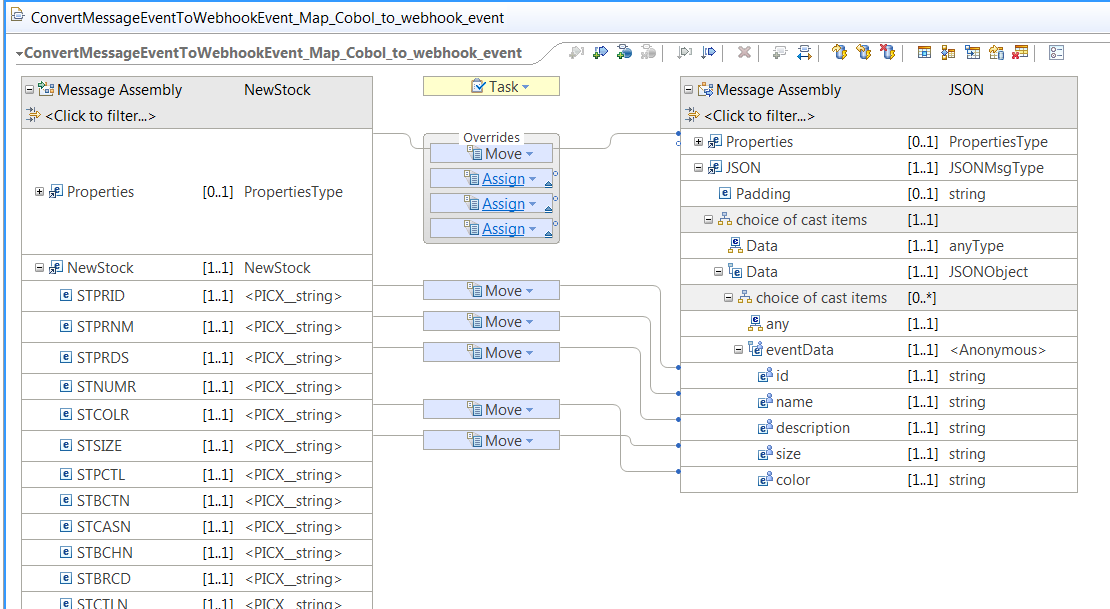
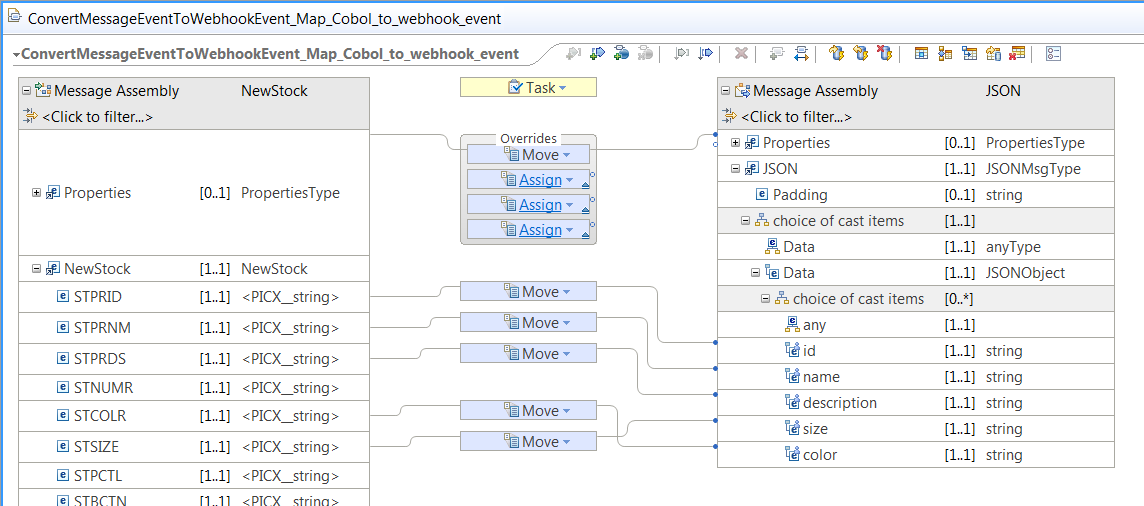
remove unneeded eventData structure

Changed region(s): [[0.0, 0.0, 1.0, 1.0], [0.3982, 0.7708, 0.5514, 0.8893], [0.1838, 0.2964, 0.3063, 0.3261]]

diff --git a/doc/modwarehouse.md b/doc/modwarehouse.md
@@ -6,15 +6,15 @@ It is very easy to construct your own flow that follows the same lines as the [W
 
 ## Creating a new IIB integration to send events to App Connect
 Take a look at the Warehouse sample message flow that maps from a Warehouse event to App Connect:
-![Warehouse IIB Message flow](./warehouse_sample_messageflow.png)
+![Warehouse IIB Message flow](./warehouse_sample_messageflow.png) 
 The important part of this flow for sending events to App Connect are the mapping node and the webhook subflow that follows it. The mapping node converts from the complex incoming data structure to a simple JSON doc App Connect can understand and the subflow then does all the function required to implement a webhook pattern App Connect can interact with.
 To create a new message flow that receives your own events and sends them to App Connect you first need to construct the first part of the flow that using nodes in IIB like MQ, SAP, File and so to receive events. Then add in a mapping node that maps to simple JSON structure followed by a webhook subflow to set up the webhook point.
 For example, if I wanted to take an event from MQ and send it to App Connect then I would construct a flow like the following:
 
-![Warehouse IIB Message flow](./custom_messageflow.png)
+![Warehouse IIB Message flow](./custom_messageflow.png) 
 
 I would need to map the structure coming from MQ to a simple JSON structure. The structure coming from MQ could be anything from a simple XML document to a complex EDIFact message. The JSON structure in the map that it is mapped to must have a root element called `JSON` followed by a child element called `Data` that has a child called `eventData`. There needs to be one element beneath the eventData element for each field to send to App Connect. For the warehouse sample there were five fields: id, name, description, size and color. The map for this looks like:
-![Warehouse IIB Message flow](./warehouse_sample_map.png)
+![Warehouse IIB Message flow](./warehouse_sample_map.png) 
 The left half of the map is from the incoming data from MQ and the right is the JSON doc to send to App Connect. Your map will contain whatever data you want on the left and right as long as the JSON doc on the right conforms to the basic structure mentioned above.
 
 The webhook subflow needs to directly follow the mapping node and contain three properties you must set:
@@ -23,11 +23,11 @@ The webhook subflow needs to directly follow the mapping node and contain three 
 * WebhookBaseUrl - the URL that is used to register for events from this webhook. It is NOT the url that is actually called to send the event but instead the URL to POST the callback URL to. The path can be anything you like but ideally would reflect the source of events with /hook added to the end but it is up to you what the exact path is. It does not have to end in /hook. Some examples: /warehouse/stock/hook, /customer/address/hook, /customer or /AB/F5.
 * WebhookStarUrl - must be identical to WebhookBaseUrl except suffixed by `/*`. This is only required due to a limitation in how properties are promoted from a sub flow.
 
- Now the flow is constructed, it can be deployed to IIB ready to be used by App Connect. It does not at this point need to know any App Connect details.
+ Now the flow is constructed, it can be deployed to IIB ready to be used by App Connect. It does not at this point need to know any App Connect details. 
 
-
-## Creating a new Application Definition file for the IIB integration
-To configure App Connect to use the IIB flow, a new Application Definition file needs to be created to define the new webhook contained in the messageflow that has been deployed to IIB.
+  
+## Creating a new Webhook definition file for the IIB integration
+To configure App Connect to use the IIB flow a new Webhook definition file needs to be created to define the new webhook hook contained in the messageflow that has been deployed to IIB.
 
 Copy the Warehouse sample [Warehouse Webhook definition file](./warehousedefinition.yaml) and give it a name suitable for your new end system.
 
